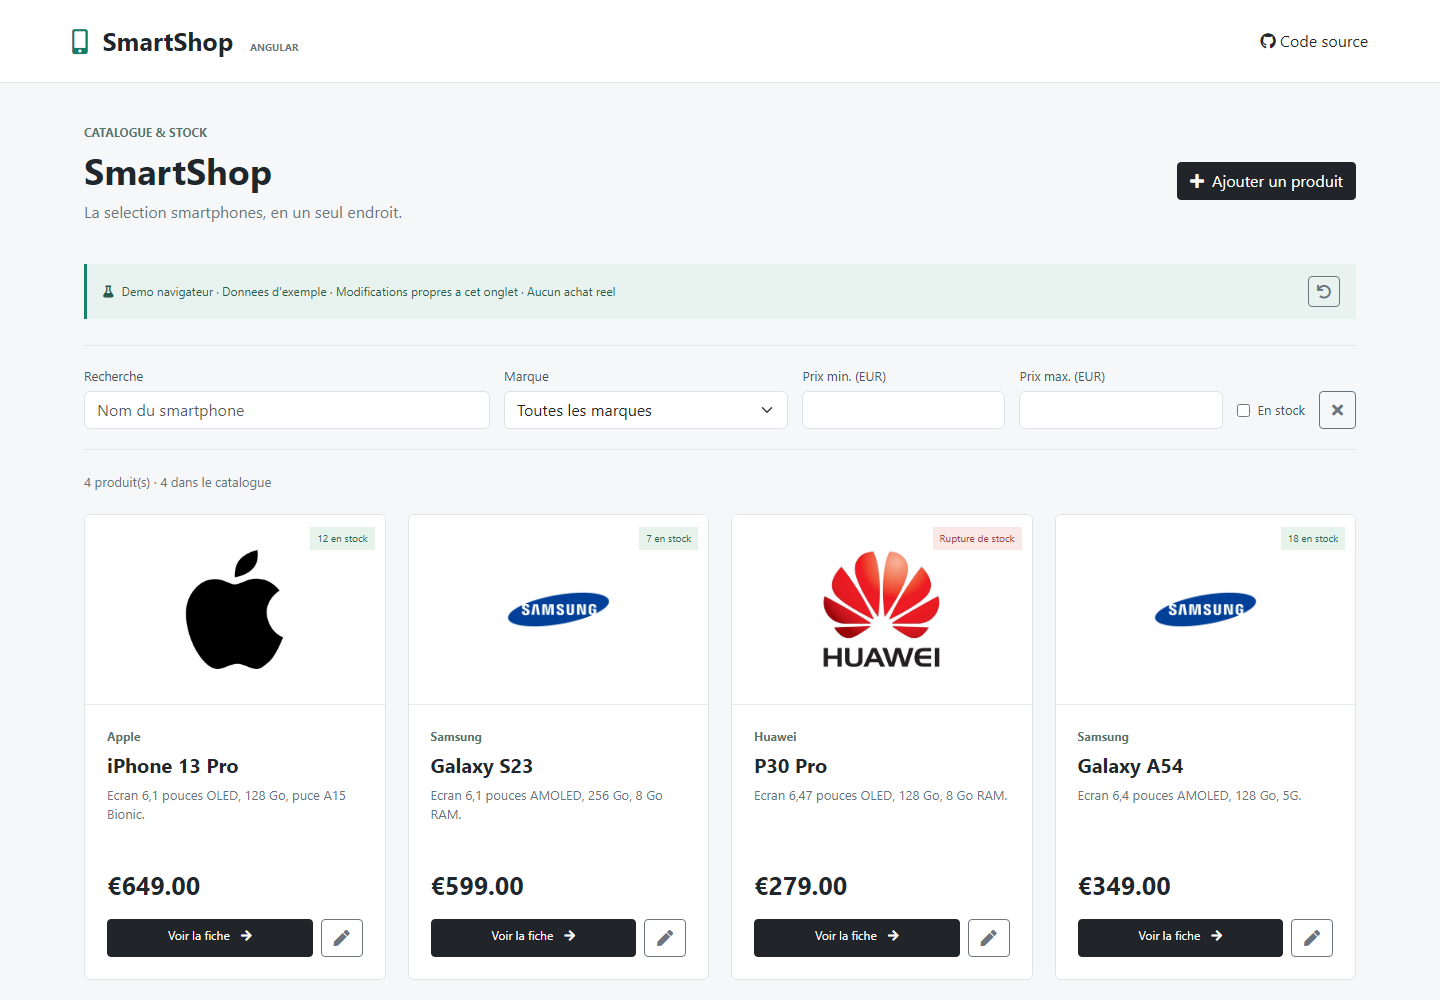
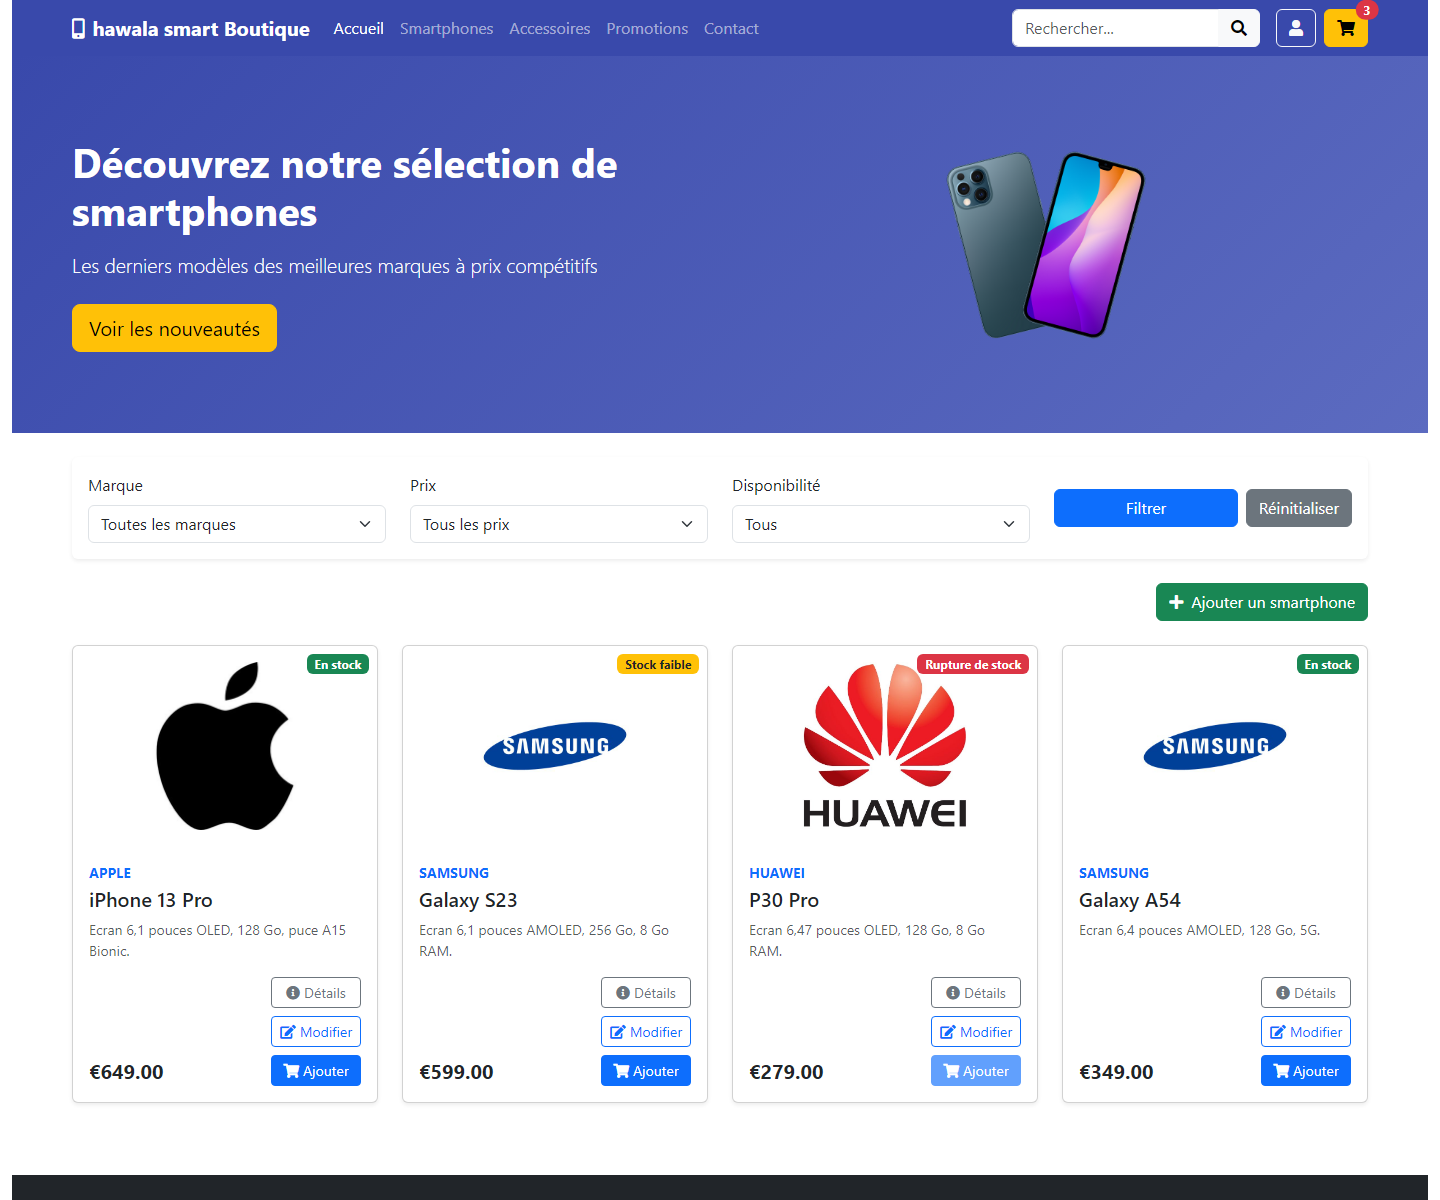
Show original SmartShop storefront with JSON demo data

diff --git a/Portfolio/src/components/Projects/projectData.js b/Portfolio/src/components/Projects/projectData.js
@@ -107,7 +107,7 @@ const projectsFr = [
     screenshots: smartshopScreenshots,
     title: "SmartShop - Catalogue Angular",
     description:
-      "Application de catalogue et de gestion de smartphones sous Angular 17 : recherche, filtres combinés par marque, prix et disponibilité, fiches détaillées et CRUD avec formulaires réactifs. Backend Express et MongoDB dans le projet local. Démo Vercel autonome avec données d'exemple et modifications isolées dans l'onglet du visiteur, sans achat réel ni base partagée.",
+      "Application de catalogue et de gestion de smartphones sous Angular 17 : recherche, filtres combinés par marque, prix et disponibilité, fiches détaillées et CRUD avec formulaires réactifs. La démo Vercel reprend l'interface originale du projet avec des produits fictifs chargés depuis un fichier JSON, sans backend déployé ni achat réel. API Express et MongoDB disponibles dans le code source.",
     ghLink: "https://github.com/hawalayessin/SmartphoneShop",
     demoLink: "https://smartshop-angular-demo.vercel.app",
     techTags: ["Angular", "TypeScript", "RxJS", "Bootstrap", "Express", "MongoDB"],
@@ -205,7 +205,7 @@ const projectsEn = [
     screenshots: smartshopScreenshots,
     title: "SmartShop - Angular Catalogue",
     description:
-      "Angular 17 smartphone catalogue and inventory application: search, combined brand, price and stock filters, detail pages and CRUD with reactive forms. Express and MongoDB backend in the local project. Standalone Vercel demo with sample data and changes isolated in each visitor's tab, without real purchases or a shared database.",
+      "Angular 17 smartphone catalogue and inventory application: search, combined brand, price and stock filters, detail pages and CRUD with reactive forms. The Vercel demo preserves the project's original interface with fictional products loaded from a JSON file, without a deployed backend or real purchases. Express and MongoDB API included in the source code.",
     ghLink: "https://github.com/hawalayessin/SmartphoneShop",
     demoLink: "https://smartshop-angular-demo.vercel.app",
     techTags: ["Angular", "TypeScript", "RxJS", "Bootstrap", "Express", "MongoDB"],
